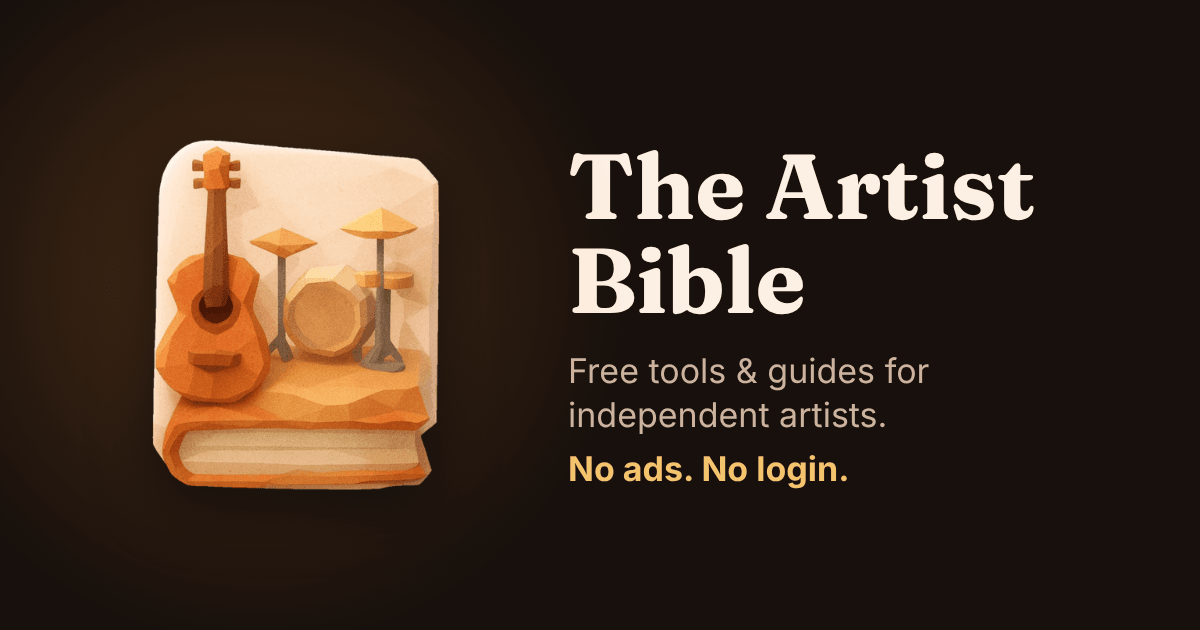
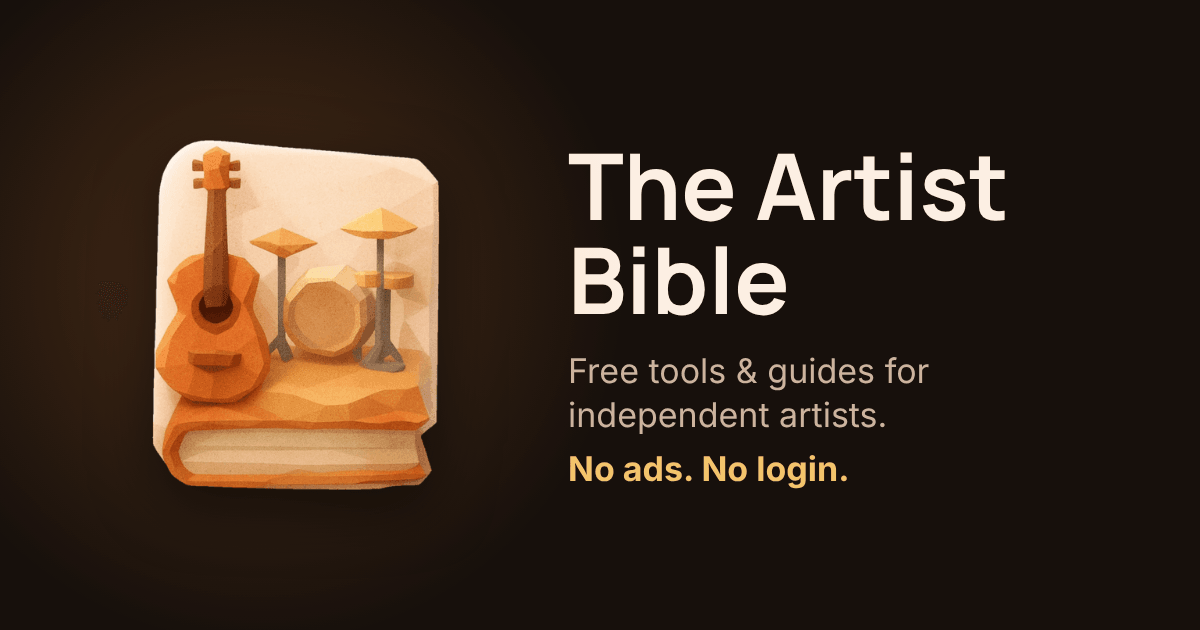
Glass UI pass 1: modern sans headings and the Release week strip
- Headings switch from a serif to Manrope (smaller download); share image regenerated
- Release page: week strip, one circle per plan step (done / next / behind / coming up,
  release day flag), tap to jump to the step; accessible names include the visible text
- Fix: hidden screen-reader text inside the scrolling strip made the page wider than the
  screen on phones; anchored it, and the e2e overflow check now guards it
- Contrast fixes for the "next" circle in light mode
- CLAUDE.md records the UI direction

Claude-Session: https://claude.ai/code/session_01UaczByrx5oRDyhagng48qr

Changed region(s): [[0.4625, 0.2413, 0.8633, 0.3619], [0.4625, 0.3921, 0.6783, 0.5127]]

diff --git a/src/components/tools/ReleaseCalculator.tsx b/src/components/tools/ReleaseCalculator.tsx
@@ -1,10 +1,10 @@
-import { AlertTriangle, CalendarCheck, Check, Link2, PartyPopper, Plus, Printer, Trash2 } from 'lucide-react';
+import { AlertTriangle, CalendarCheck, Check, Flag, Link2, PartyPopper, Plus, Printer, Trash2 } from 'lucide-react';
 import { useCallback, useEffect, useMemo, useRef, useState } from 'react';
 import { useSearchParams } from 'react-router-dom';
 import { startNewRelease as startNewReleaseAction, useLocalProgress } from '../../hooks/useLocalProgress';
 import { copyText } from '../../lib/clipboard';
 import { daysBetween, formatLongDate, formatISOForDisplay, parseISODate, todayISO } from '../../lib/dates';
-import { milestonesFor, planRelease, relativeDays } from '../../lib/release';
+import { milestonesFor, planRelease, relativeDays, type PlannedMilestone } from '../../lib/release';
 import { cn, newId } from '../../lib/utils';
 import type { ReleaseType } from '../../types/bible';
 import { Badge } from '../ui/badge';
@@ -24,6 +24,56 @@ const TYPE_OPTIONS: { value: ReleaseType; label: string; tip: string }[] = [
 
 const isType = (v: string | null): v is ReleaseType => v === 'single' || v === 'ep' || v === 'album';
 const shortDate = (d: Date) => d.toLocaleDateString('en-US', { weekday: 'short', month: 'short', day: 'numeric' });
+
+/** The whole journey at a glance: one circle per step, ending on release day. Tap one to jump to it. */
+function TimelineStrip({ steps, completed, nextId }: { steps: PlannedMilestone[]; completed: string[]; nextId: string | undefined }) {
+  const first = steps[0];
+  const last = steps[steps.length - 1];
+  if (!first || !last) return null;
+  const range = `${shortDate(first.due).replace(/^\w+, /, '')} to ${shortDate(last.due).replace(/^\w+, /, '')}`;
+  return (
+    <div className="no-print mt-6">
+      <p className="mb-2 flex items-baseline justify-between text-sm">
+        <span className="font-bold">Your timeline</span>
+        <span className="text-muted">{range}</span>
+      </p>
+      <ul className="-mx-4 flex snap-x gap-3 overflow-x-auto px-4 pb-2" aria-label="Release timeline">
+        {steps.map((m) => {
+          const done = completed.includes(m.id);
+          const isNext = m.id === nextId;
+          const overdue = !done && m.daysFromNow < 0;
+          const isRelease = m.weeksOut === 0;
+          const state = done ? 'done' : overdue ? 'behind' : isNext ? 'next' : 'upcoming';
+          return (
+            <li key={m.id} className="relative snap-start">
+              <a
+                href={`#step-${m.id}`}
+                className="flex w-[3.75rem] flex-col items-center gap-1.5 text-center"
+              >
+                <span
+                  className={cn(
+                    'grid h-12 w-12 place-items-center rounded-full border-2 text-sm font-extrabold transition-colors',
+                    state === 'done' && 'border-accent bg-accent text-accent-fg',
+                    state === 'next' && 'border-accent bg-accent/15 text-fg shadow-[0_0_0_4px_color-mix(in_srgb,var(--accent)_22%,transparent)]',
+                    state === 'behind' && 'border-warn bg-warn/15 text-warn',
+                    state === 'upcoming' && 'border-border bg-surface text-muted',
+                  )}
+                >
+                  {state === 'done' ? <Check className="h-5 w-5" strokeWidth={3} aria-hidden="true" /> : isRelease ? <Flag className="h-5 w-5" aria-hidden="true" /> : state === 'behind' ? '!' : `${m.weeksOut}w`}
+                </span>
+                <span className="sr-only">
+                  {isRelease ? 'Release day' : `${m.weeksOut} ${m.weeksOut === 1 ? 'week' : 'weeks'} before`}: {m.label}. {state === 'done' ? 'Done.' : state === 'behind' ? 'Behind.' : state === 'next' ? 'Next up.' : 'Coming up.'}
+                </span>
+                <span className={cn('text-xs font-bold leading-tight', isNext && !done ? 'text-accent' : 'text-fg')}>{shortDate(m.due).replace(/^\w+, /, '')}</span>
+                <span className="-mt-1 text-[11px] leading-none text-muted">{isRelease ? 'Release' : isNext && !done ? 'Next' : ''}</span>
+              </a>
+            </li>
+          );
+        })}
+      </ul>
+    </div>
+  );
+}
 
 function ReleaseForm({ onNew, allowLink }: { onNew: () => void; allowLink: boolean }) {
   const [params, setParams] = useSearchParams();
@@ -172,6 +222,8 @@ function ReleaseForm({ onNew, allowLink }: { onNew: () => void; allowLink: boole
             )
           )}
 
+          <TimelineStrip steps={milestones} completed={completed} nextId={nextUp?.id} />
+
           <StepHeading title="Your full plan" hint={`${doneCount} of ${milestones.length} done`} />
           <ProgressBar value={milestones.length ? (doneCount / milestones.length) * 100 : 0} label="Release plan progress" className="mb-4" />
 
@@ -180,7 +232,7 @@ function ReleaseForm({ onNew, allowLink }: { onNew: () => void; allowLink: boole
               const isDone = completed.includes(m.id);
               const overdue = !isDone && m.daysFromNow < 0;
               return (
-                <li key={m.id} className="print-break-avoid">
+                <li key={m.id} id={`step-${m.id}`} className="print-break-avoid">
                   <label
                     className={cn(
                       'flex cursor-pointer items-start gap-3.5 rounded-2xl border bg-surface p-4 transition-colors has-[:focus-visible]:outline-3 has-[:focus-visible]:outline-gold',

diff --git a/src/index.css b/src/index.css
@@ -10,11 +10,11 @@
   src: url('../node_modules/@fontsource-variable/inter/files/inter-latin-wght-normal.woff2') format('woff2-variations');
 }
 @font-face {
-  font-family: 'Fraunces Variable';
+  font-family: 'Manrope Variable';
   font-style: normal;
   font-display: swap;
   font-weight: 100 900;
-  src: url('../node_modules/@fontsource-variable/fraunces/files/fraunces-latin-wght-normal.woff2') format('woff2-variations');
+  src: url('../node_modules/@fontsource-variable/manrope/files/manrope-latin-wght-normal.woff2') format('woff2-variations');
 }
 
 /* Artist Bible's own look: the logo's orange on warm brown (dark) or peach (light). Success states stay green.
@@ -117,7 +117,7 @@
   --color-warn: var(--warn);
   --color-bad: var(--bad);
   --font-sans: 'Inter Variable', ui-sans-serif, system-ui, -apple-system, 'Segoe UI', Roboto, sans-serif;
-  --font-display: 'Fraunces Variable', Georgia, 'Times New Roman', serif;
+  --font-display: 'Manrope Variable', 'Inter Variable', ui-sans-serif, system-ui, sans-serif;
 }
 
 html {
@@ -197,7 +197,7 @@ input[type='date']::-webkit-calendar-picker-indicator { opacity: 0.75; }
   --tw-prose-td-borders: var(--border);
   font-size: 1.0625rem;
 }
-.chapter-prose h2, .chapter-prose h3 { font-family: var(--font-display); font-weight: 700; }
+.chapter-prose h2, .chapter-prose h3 { font-family: var(--font-display); font-weight: 800; letter-spacing: -0.01em; }
 .chapter-prose table { font-size: 0.9rem; }
 
 /* Print: a clean light sheet for release plans and split sheets */

diff --git a/CLAUDE.md b/CLAUDE.md
@@ -250,3 +250,10 @@ Two themes, both warm and built around the logo: **dark** (warm brown, the origi
 * Tokens live in `src/index.css` (`:root` = dark, `:root[data-theme='light']`, plus a no-JS fallback that follows the device). Never hardcode colors in components; use the tokens (`bg-bg`, `text-fg`, `text-accent`, ...).
 * `public/theme-init.js` runs before first paint (kept external because the CSP forbids inline scripts) so there is no flash of the wrong theme. Preference is stored in `artist_bible_ui_v1` (UI only), never in `artist_bible_v1`.
 * Orange is the brand accent; **green means success** and must not be replaced by the accent. Check contrast in both themes (axe) after any palette change.
+
+---
+
+## 11. UI direction (added after v1)
+Glass-and-gradient look inspired by modern course apps, in the logo's colors: a soft ambient glow behind every screen, translucent frosted cards (`--surface` is a translucent token; use `--surface-solid` where something must be opaque), a floating glass pill tab bar with a raised Home button, colorful pastel gradient cards with dark text for the three main starting points, and a hero where the logo artwork breaks out of its card. Headings use **Manrope** (a modern sans); body text uses Inter. The Release page has a "week strip" of circles, one per plan step, that jumps to each step.
+* Floating bars use mostly-opaque `--glass` so they stay readable where `backdrop-filter` is unsupported.
+* Visually hidden helper text inside scrolling rows must sit inside a `relative` ancestor, or it can widen the whole page on phones.
